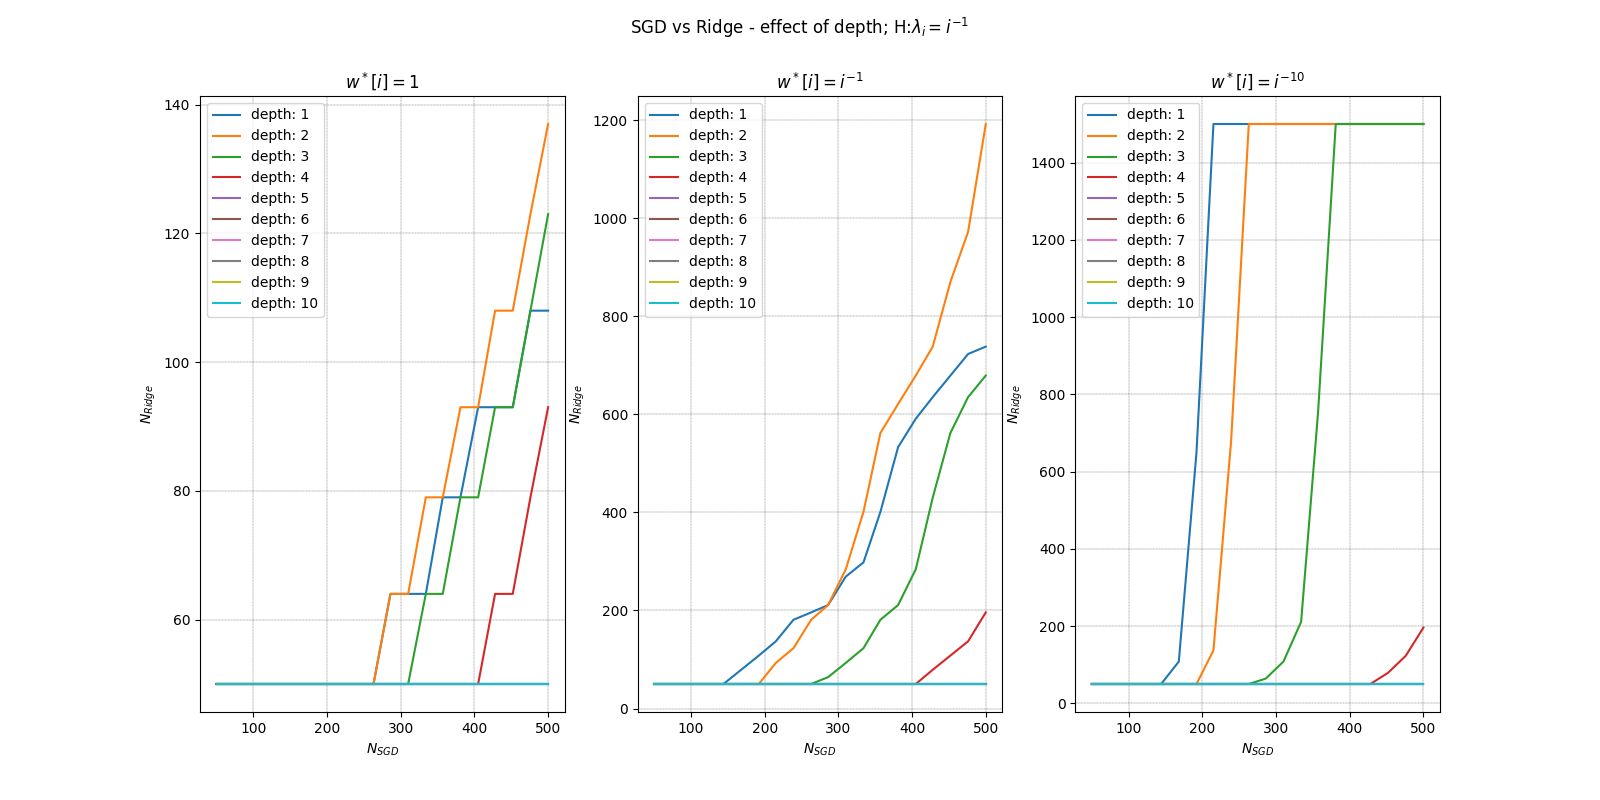
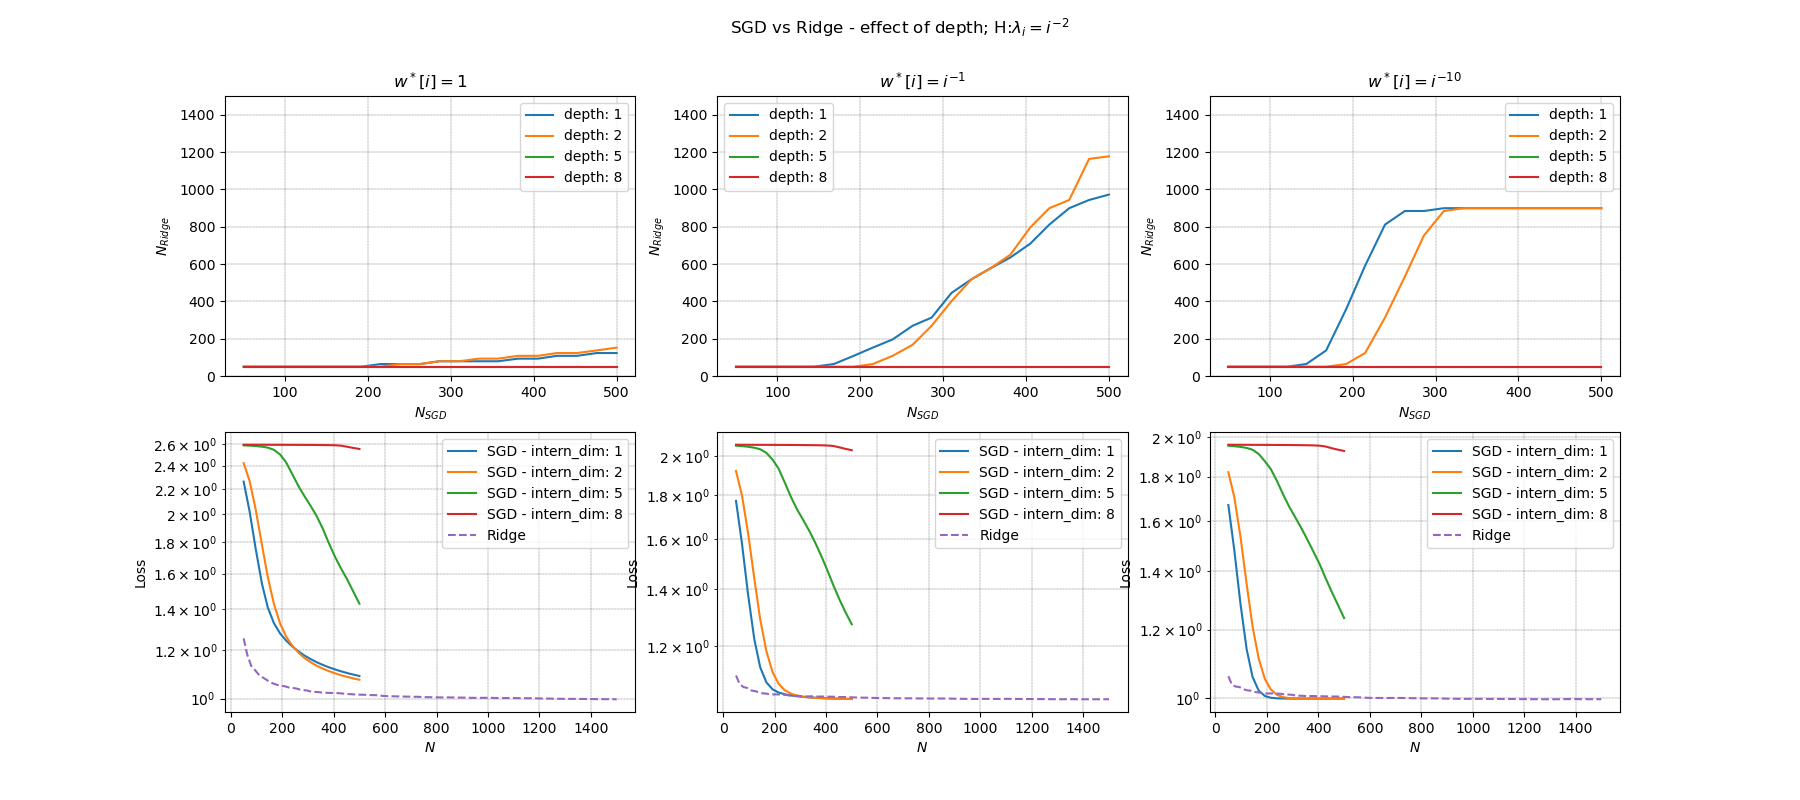
Depth test

diff --git a/benefits_study_depthVAR copy.py b/benefits_study_depthVAR copy.py
@@ -1,0 +1,147 @@
+import numpy as np
+import matplotlib.pyplot as plt
+from tqdm import tqdm
+import torch
+
+from utils import *
+
+np.random.seed(5)
+torch.manual_seed(5)
+
+### Parameters
+COMPUTE_DATA_PLOT = True
+
+d = 50
+sigma2 = 1
+nb_avg = 20
+
+N_samples = 10000
+
+N_max_ridge = 1500
+N_max_sgd = 500
+n_ridge = np.floor(np.linspace(d,N_max_ridge,100)).astype(dtype=np.uint16)
+n_sgd = np.floor(np.linspace(d,N_max_sgd,20)).astype(dtype=np.uint16)
+
+all_which_h = [2] # 1 or 2 -> i**(-...)
+all_which_w = [0,1,10] # 0, 1 or 10 -> i**(-...)
+
+intern_dim = 10
+depths = [1,2,5,8]
+
+OUTLIER_DETECTION = True
+threshold_obj = sigma2*4
+
+# saving paths
+SAVE_DIR_SGD = 'data/SGD/'
+SAVE_DIR_RIDGE = 'data/Ridge/'
+SAVE_DATA_PLOT_N = f'data/data_plot_n_d{d}_indim{intern_dim}_depthVARIATION.npy'
+SAVE_DATA_PLOT_SGD = f'data/data_plot_sgd_d{d}_indim{intern_dim}_depthVARIATION.npy'
+SAVE_DATA_PLOT_RIDGE = f'data/data_plot_ridge_d{d}_indim{intern_dim}_depthVARIATION.npy'
+SAVE_DIR_FIG = 'figures/'
+
+# Plots
+W_LABELS = [r'$w^*[i]=1$', r'$w^*[i]=i^{-1}$', r'$w^*[i]=i^{-10}$']
+H_LABELS = [r'$\lambda_i=i^{-1}$', r'$\lambda_i=i^{-2}$']
+COLORS = ['tab:blue', 'tab:orange', 'tab:green']
+
+### Computation of data for the plot
+if COMPUTE_DATA_PLOT:
+    ### Study
+    # Initialisation
+    y_plot = np.zeros((len(depths), len(all_which_h), len(all_which_w), len(n_sgd))) # (h,w, n_sgd)
+    sgd_risks = np.zeros((len(depths), len(all_which_h), len(all_which_w), len(n_sgd)))
+    ridge_risks = np.zeros((len(all_which_h), len(all_which_w), len(n_ridge)))
+    # y_plot[h,w, n] contains the value n_ridge s.t loss(ridge(n_ridge)) ~= loss(sgd(n_sgd[n]))
+
+    for i,which_h in enumerate(all_which_h):
+        for j,which_w in enumerate(all_which_w):
+            ### Generate new data (from same distribution)
+            data, observations = generate_data(p=d, n=N_max_ridge, sigma2=sigma2, which_w=which_w, which_h=which_h)
+
+            ### RIDGE PART
+            suffix_ridge = suffix_filename(ridge_bool=True, w=which_w, h=which_h, d=d)
+            SAVE_RIDGE_ITERATE = SAVE_DIR_RIDGE + 'iterates'+suffix_ridge+'.npy'
+            w_ridge = np.load(SAVE_RIDGE_ITERATE) # (nb_avg, len(n_ridge), d)
+            
+            # Compute variables of interest
+            ridge_errors = np.zeros((nb_avg, len(n_ridge)))
+            for k1 in range(nb_avg): # for each model
+                for k2,n in enumerate(n_ridge): # for each n
+                    ridge_errors[k1,k2] = objective(data, observations, w_ridge[k1,k2,:])
+
+            # Outlier detection
+            if OUTLIER_DETECTION:
+                n_out_ridge = (ridge_errors>threshold_obj).sum()
+                ridge_risks[i, j,:] = np.mean(ridge_errors, axis=0, where=ridge_errors<threshold_obj)
+                print(f'Ridge: {n_out_ridge} outliers for H{which_h}_w{which_w}')
+            else:
+                ridge_risks[i, j,:] = np.mean(ridge_errors, axis=0)
+
+
+            ### SGD PART
+            for k, depth in enumerate(depths):
+                suffix_sgd = suffix_filename(sgd_bool=True, w=which_w, h=which_h, d=d, depth=depth, intern_dim=intern_dim)
+                SAVE_SGD_ITERATE = SAVE_DIR_SGD + 'iterates'+suffix_sgd+'.npy'
+                w_sgd = np.load(SAVE_SGD_ITERATE) # (nb_avg, len(n_sgd), d)            
+                sgd_errors = np.zeros((nb_avg, len(n_sgd)))
+                for k1 in range(nb_avg): # for each model
+                    for k2,n in enumerate(n_sgd): # for each n
+                        sgd_errors[k1,k2] = objective(data, observations, w_sgd[k1,k2,:])
+            
+                # Outlier detection
+                if OUTLIER_DETECTION:
+                    n_out_sgd = (sgd_errors > threshold_obj).sum()
+                    sgd_risks[k, i, j,:] = np.mean(sgd_errors, axis=0, where=sgd_errors<threshold_obj)
+                    print(f'SGD: {n_out_sgd} outliers for H{which_h}_w{which_w} indim{intern_dim} ')
+                else:
+                    sgd_risks[k,i, j,:] = np.mean(sgd_errors, axis=0)
+
+                # for each n_sgd, search minimal n_ridge with same risk
+                for k1,n in enumerate(n_sgd):
+                    if np.isnan(sgd_risks[k, i, j, k1]):
+                        valid = [n_ridge[0]]
+                    else:
+                        valid = n_ridge[np.where(ridge_risks[i, j,:]<sgd_risks[k, i, j,k1])] # ridge better than sgd with n_sgd[k] samples
+                    if len(valid) != 0:
+                        y_plot[k, i, j,k1] = valid[0] # smallest n_ridge better than sgd
+                    else:
+                        y_plot[k, i, j,k1] = n_ridge[-1] #n_ridge[-1] # default: all ridge worse than sgd
+
+    np.save(SAVE_DATA_PLOT_N, y_plot)
+    np.save(SAVE_DATA_PLOT_SGD, sgd_risks)
+    np.save(SAVE_DATA_PLOT_RIDGE, ridge_risks)
+    print('Computation done')
+else:
+    y_plot = np.load(SAVE_DATA_PLOT_N)
+    sgd_risks = np.load(SAVE_DATA_PLOT_SGD)
+    ridge_risks = np.load(SAVE_DATA_PLOT_RIDGE)
+    print('Data loaded')
+
+
+### Plot part
+for i, which_h in enumerate(all_which_h):
+    fig,axs = plt.subplots(2,len(all_which_w), figsize=(18,8))
+    for j,which_w in enumerate(all_which_w):
+        for k, depth in enumerate(depths):
+            axs[0,j].plot(n_sgd, y_plot[k,i,j,:], label=f'depth: {depth}')
+            axs[1,j].plot(n_sgd, sgd_risks[k,i,j,:], label=f'SGD - intern_dim: {depth}')
+        axs[1,j].plot(n_ridge, ridge_risks[i,j,:], linestyle='--', label=f'Ridge')
+        
+        axs[0,j].grid(color='black', which="both", linestyle='--', linewidth=0.2)
+        axs[0,j].legend()
+        axs[0,j].set_xlabel(r'$N_{SGD}$')
+        axs[0,j].set_ylabel(r'$N_{Ridge}$')
+        axs[0,j].set_title(W_LABELS[j])
+        axs[0,j].set_ylim(0,N_max_ridge)
+
+        axs[1,j].grid(color='black', which="both", linestyle='--', linewidth=0.2)
+        axs[1,j].legend()
+        axs[1,j].set_xlabel(r'$N$')
+        axs[1,j].set_ylabel(r'Loss')
+        axs[1,j].set_yscale('log')
+        #axs[1,j].set_ylim(sigma2*0.9,threshold_obj)
+
+    plt.suptitle('SGD vs Ridge - effect of depth; H:'+H_LABELS[which_h-1])
+    plt.savefig(SAVE_DIR_FIG+f'benefits_H{which_h}_d{d}_indim{intern_dim}_depthVARIATION')
+    plt.show()
+    

diff --git a/main.py b/main.py
@@ -20,7 +20,7 @@ which_w = 0 # 0, 1 or 10 -> i**(-...)
 
 CROSS_VAL_K = 10
 
-GENERATE_RIDGE = True # generate ridge weights
+GENERATE_RIDGE = False # generate ridge weights
 GENERATE_SGD = True # generate SGD weights
 
 FINE_TUNE_RIDGE = False
@@ -29,7 +29,7 @@ FINE_TUNE_SGD = True
 if __name__=='__main__':
     # example of command to execute the desired files (generate data for ridge/sgd, fine tune for ridge/sgd on all w)
     for which_w in [0,1,10]:
-        #for intern_dim in [10,30,50,80,100]:
+        for depth in [1,2,5,8]:
             file = 'benefits_crossvalidation.py'
             command_fine_tune = os_command(file, 
                                            ridge_bool=FINE_TUNE_RIDGE, 
